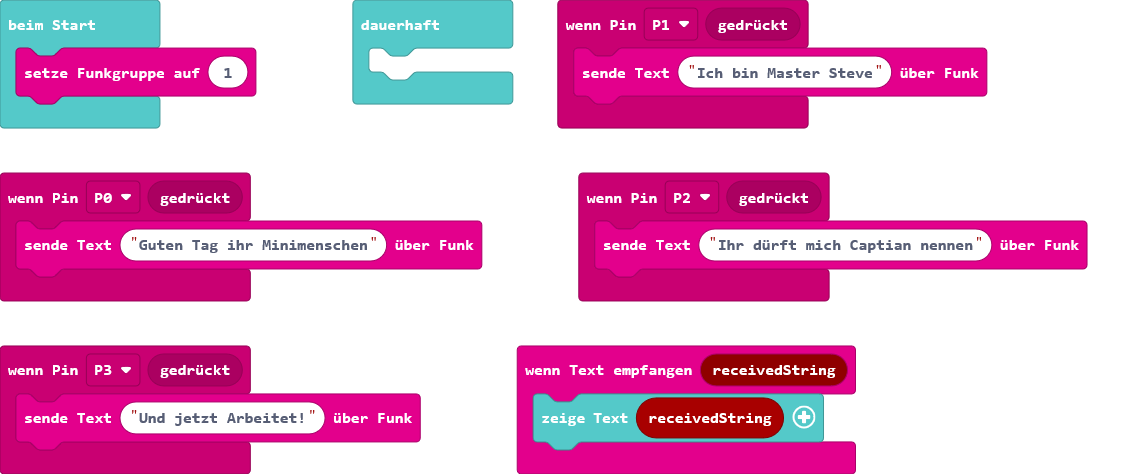
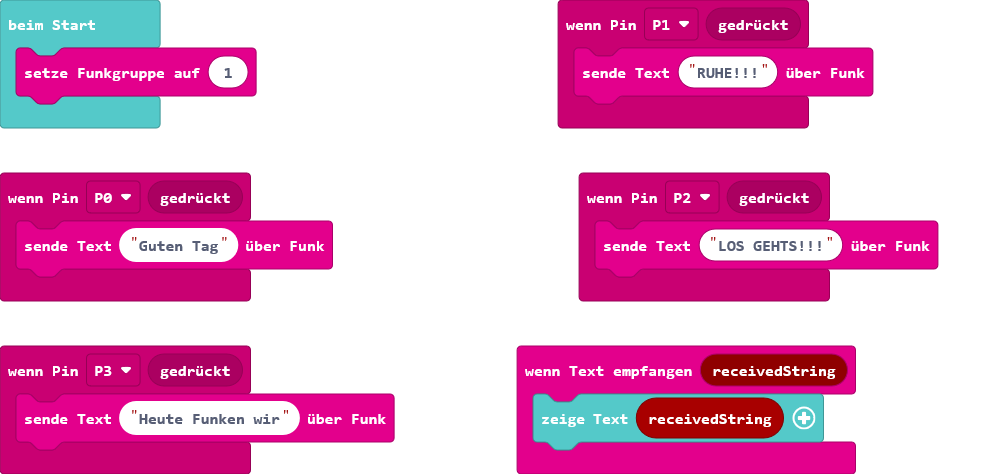
Aktualisiere main.blocks, main.ts

diff --git a/main.ts b/main.ts
@@ -1,19 +1,16 @@
 input.onPinTouchEvent(TouchPin.P1, input.buttonEventDown(), function () {
-    radio.sendString("Ich bin Master Steve")
+    radio.sendString("RUHE!!!")
 })
 radio.onReceivedString(function (receivedString) {
     basic.showString(receivedString)
 })
 input.onPinTouchEvent(TouchPin.P0, input.buttonEventDown(), function () {
-    radio.sendString("Guten Tag ihr Minimenschen")
+    radio.sendString("Guten Tag")
 })
 input.onPinTouchEvent(TouchPin.P2, input.buttonEventDown(), function () {
-    radio.sendString("Ihr dürft mich Captian nennen")
+    radio.sendString("LOS GEHTS!!!")
 })
 input.onPinTouchEvent(TouchPin.P3, input.buttonEventDown(), function () {
-    radio.sendString("Und jetzt Arbeitet!")
+    radio.sendString("Heute Funken wir")
 })
 radio.setGroup(1)
-basic.forever(function () {
-	
-})
